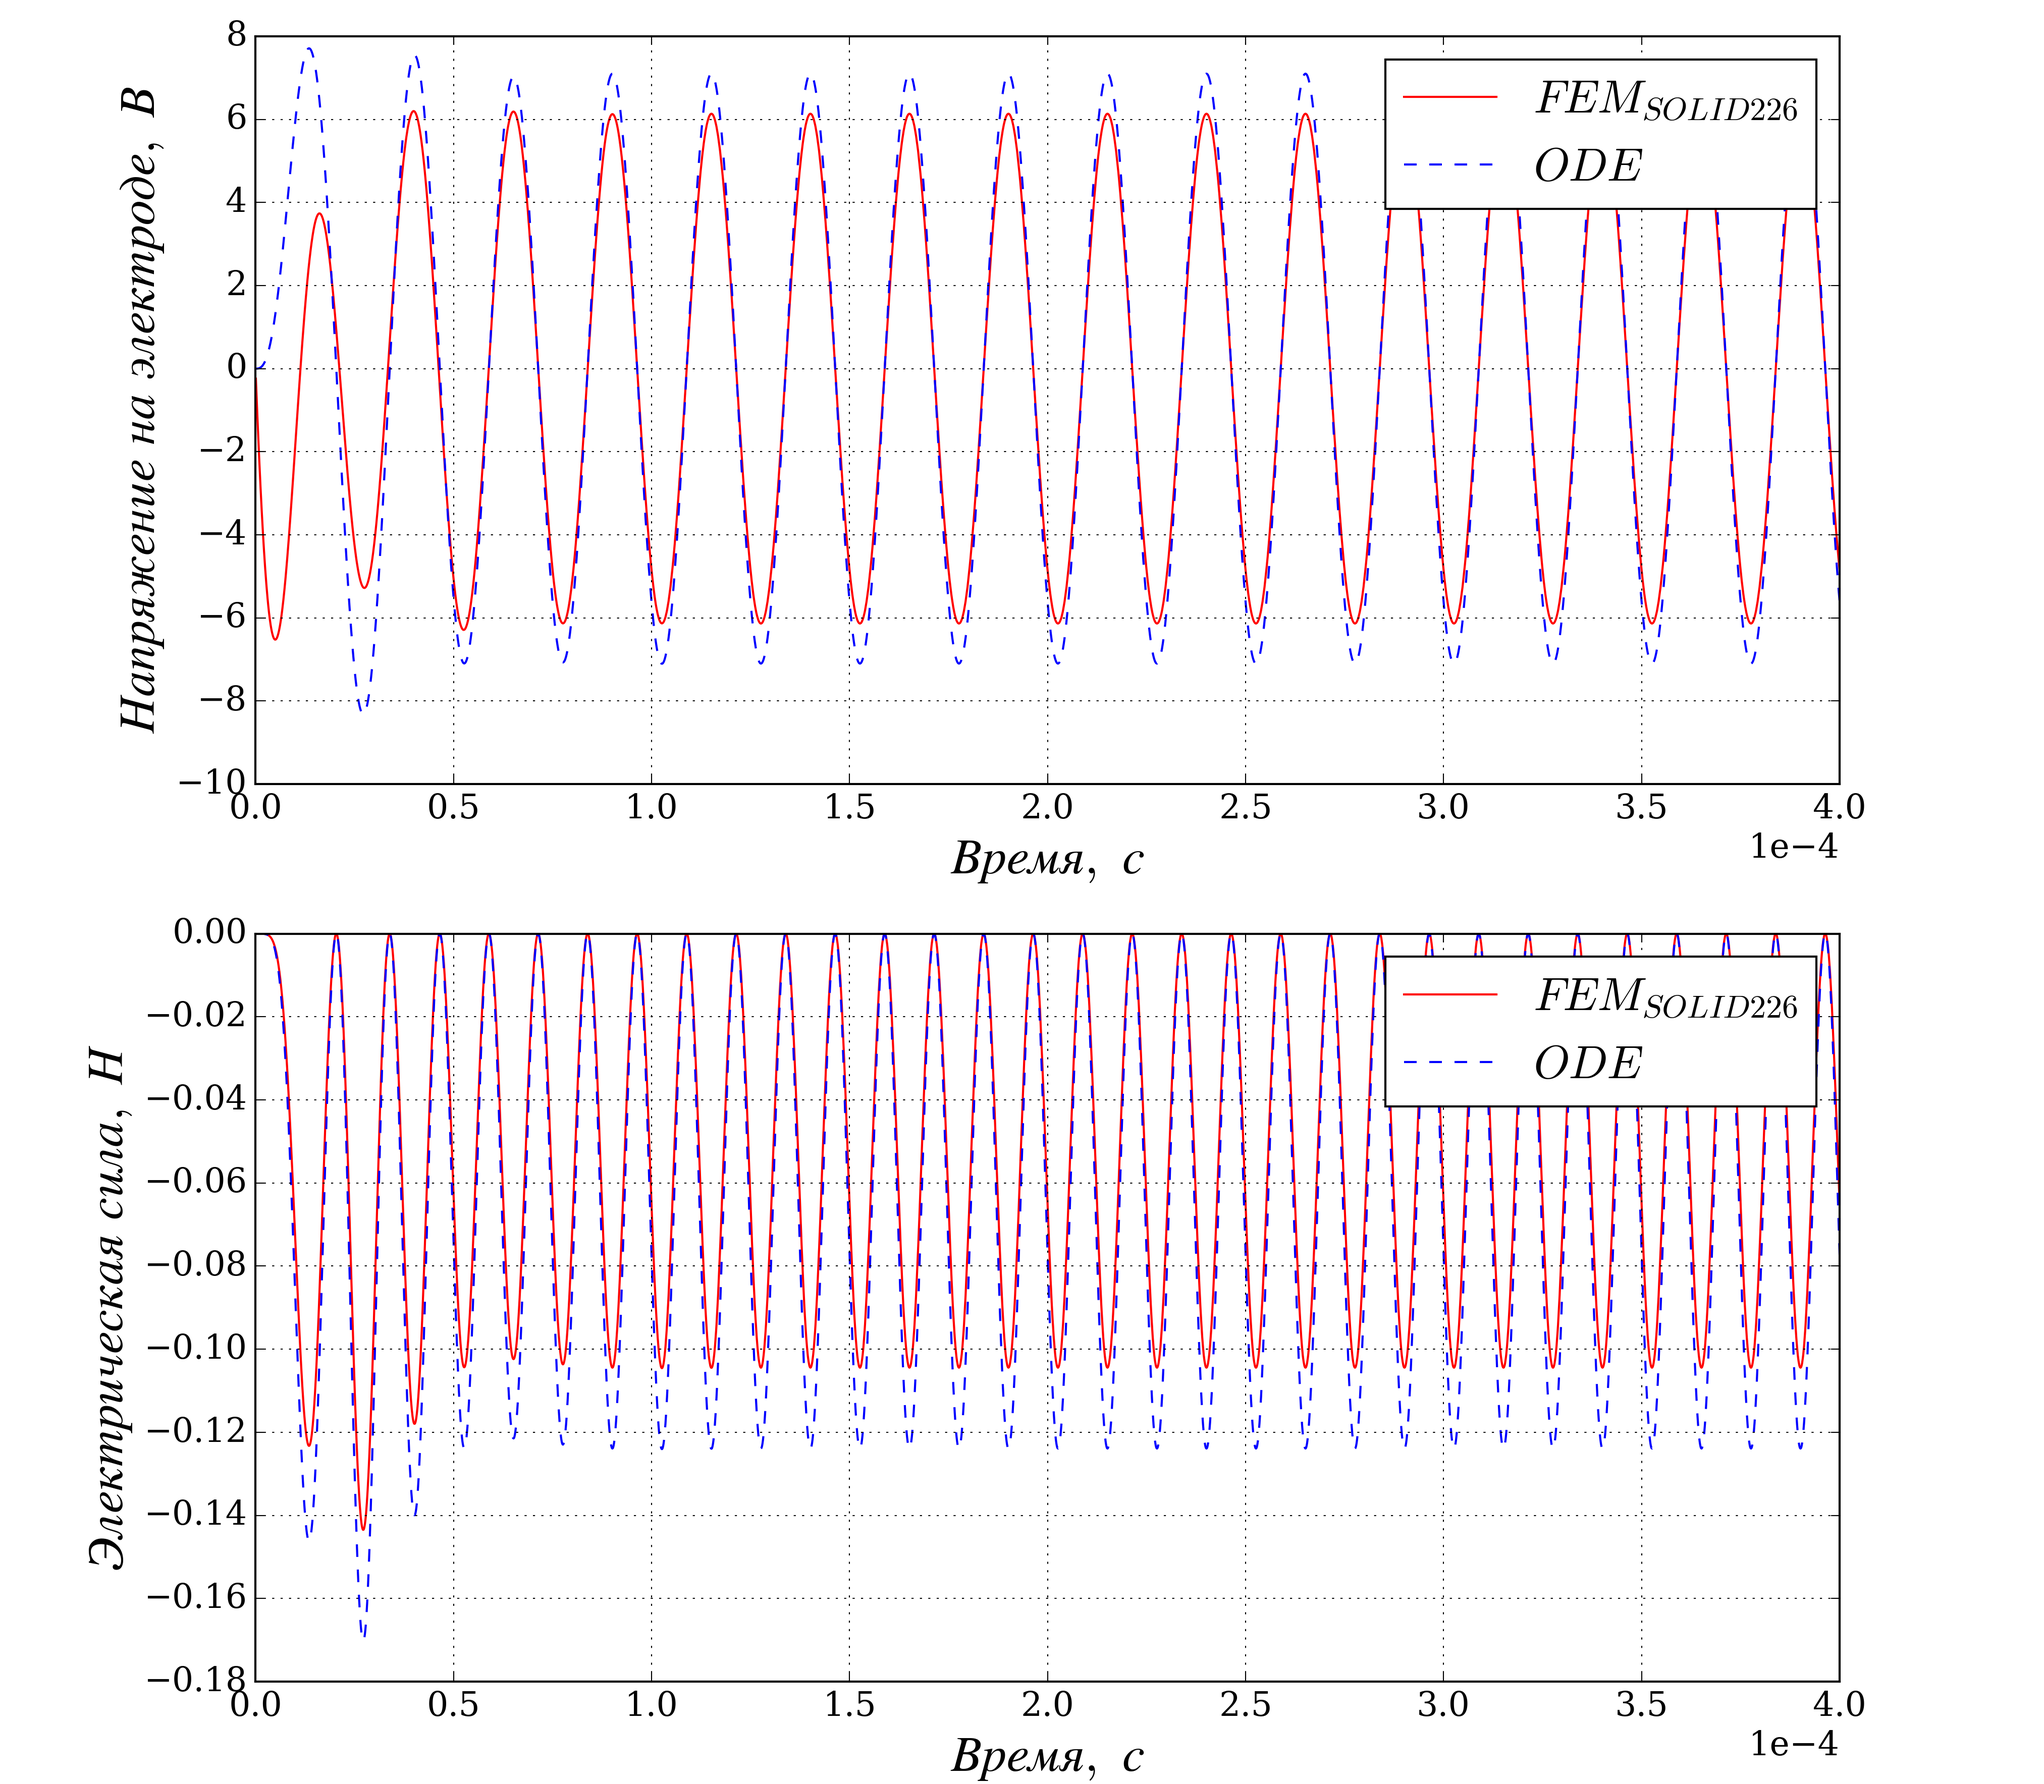
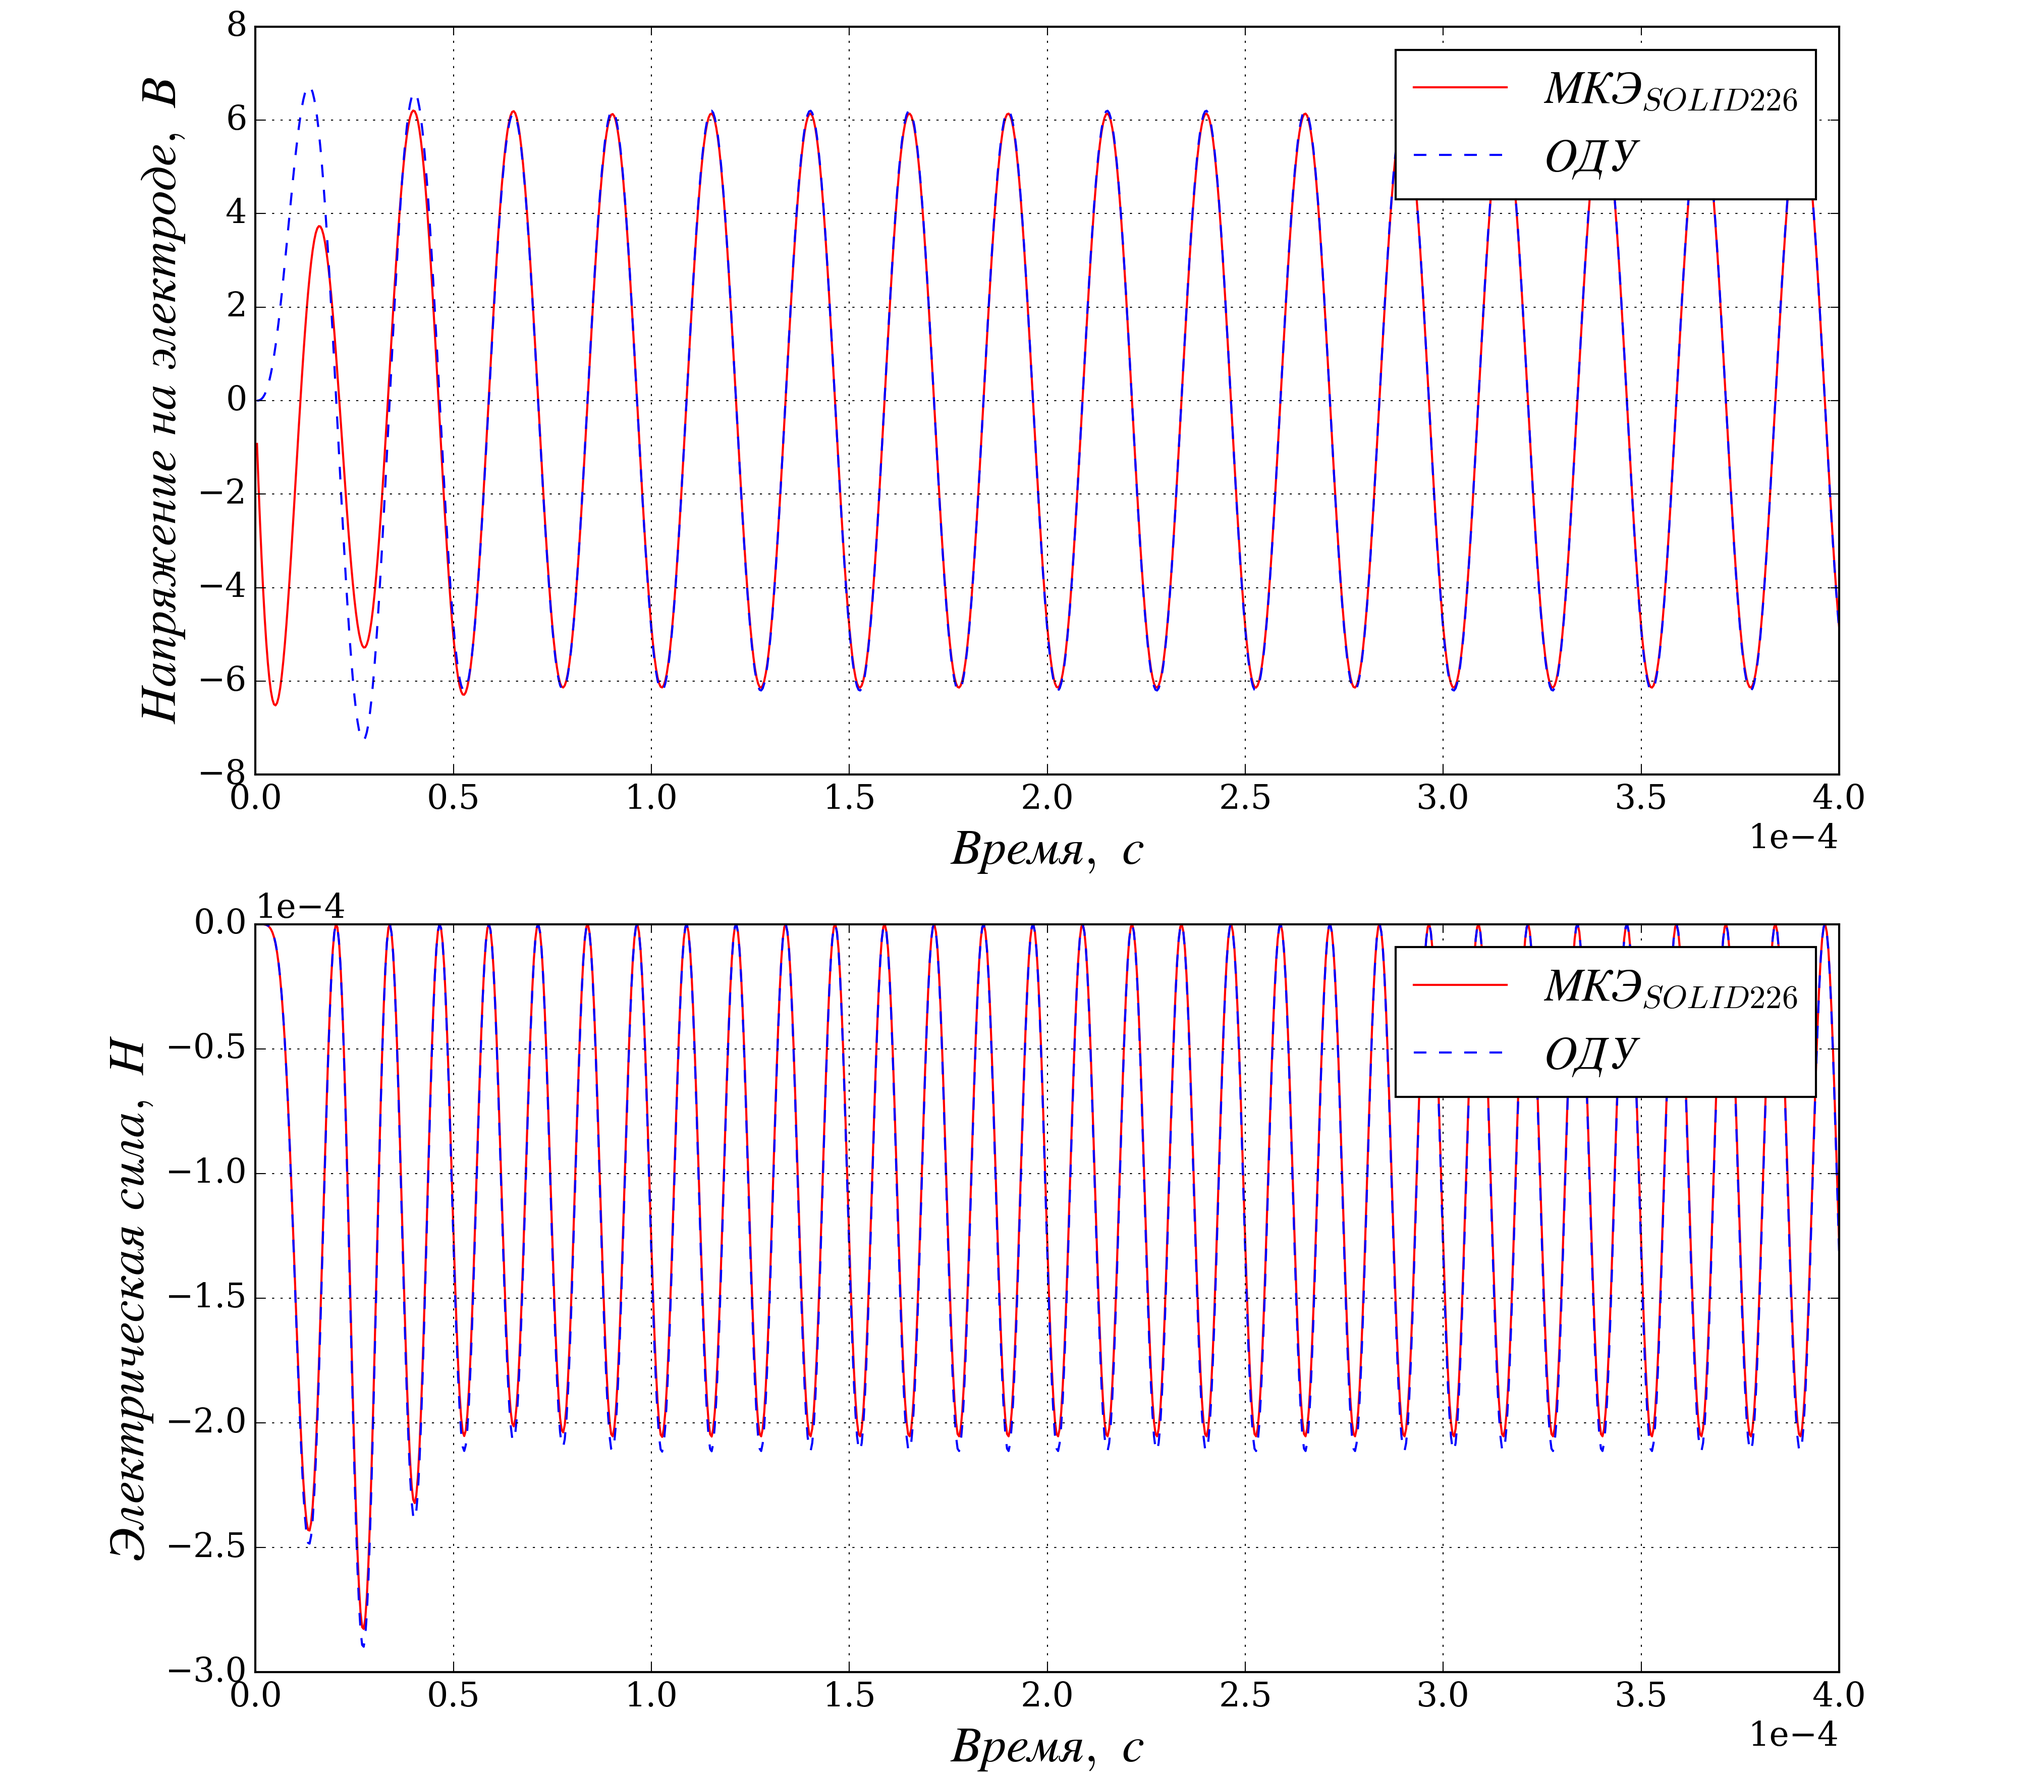
Updates from ShareLaTeX

diff --git a/Dissertation/part2.tex b/Dissertation/part2.tex
@@ -247,12 +247,12 @@ C = C(\delta), \quad \delta = \delta_0 +u_1 - u_2,
 
 Зададимся точностью $\epsilon = 0.0001$, т.~е. будем считать решение сошедшимся, если угловой коэффициент касательной к графику \ref{img:pas_susp_solid226_conv} не превышает $\epsilon$. Таким образом, минимальное количество шагов интегрирования на один период источника ЭДС необходимое для получения удовлетворяющего принимаем равным $64$, т.~е. $dt_{max}=\frac{1}{64} \cdot T$, где $T = \frac{1}{\omega}$ – период, ${\omega}$ – частота источника напряжения.
 
-Результатом расчета имеем зависимости от времени напряжения на электроде $U$ и электрической силы $F_e$, представленные на рис. \ref{img:pas_susp_solid226_sol}. Отклонение решения методом конечных элементов в модели с 50-ю элементами от прямого численного интегрирования уравнений (\ref{eq:pas_susp_motion}) не превышает $14\%$, при увеличении плотности разбиения демонстрируется тенденция приближения конечно-элементного решения к численно интегрированному уравнению (\ref{eq:pas_susp_motion}). Более подробный анализ сходимости решения от количества разбиений в работе не приведен по причине высокой ресурсоемкости метода.
+Результатом расчета имеем зависимости от времени напряжения на электроде $U$ и электрической силы $F_e$, представленные на рис. \ref{img:pas_susp_solid226_sol}. Отклонение решения методом конечных элементов в модели с 50-ю элементами от прямого численного интегрирования уравнений (\ref{eq:pas_susp_motion}) не превышает $14\%$, а с 500 элементами – $2.3\%$, т.~е. при увеличении плотности разбиения демонстрируется тенденция приближения конечно-элементного решения к некоторому решению, близкому к численно интегрированному уравнению (\ref{eq:pas_susp_motion}). Более подробный анализ сходимости решения от количества разбиений в работе не приведен по причине высокой ресурсоемкости метода.
 
 \begin{figure}[ht] 
   \centering
   \includegraphics [scale=0.5] {pas_susp_solid226_sol}
-  \caption{Результат конечно-элементного расчета методом прямого решения связанной задачи с фиксированным твердом телом}
+  \caption{Результат конечно-элементного расчета методом прямого решения связанной задачи с фиксированным твердом телом в сравнении с численным решением ОДУ (\ref{eq:pas_susp_motion})}
   \label{img:pas_susp_solid226_sol}
 \end{figure}
 
